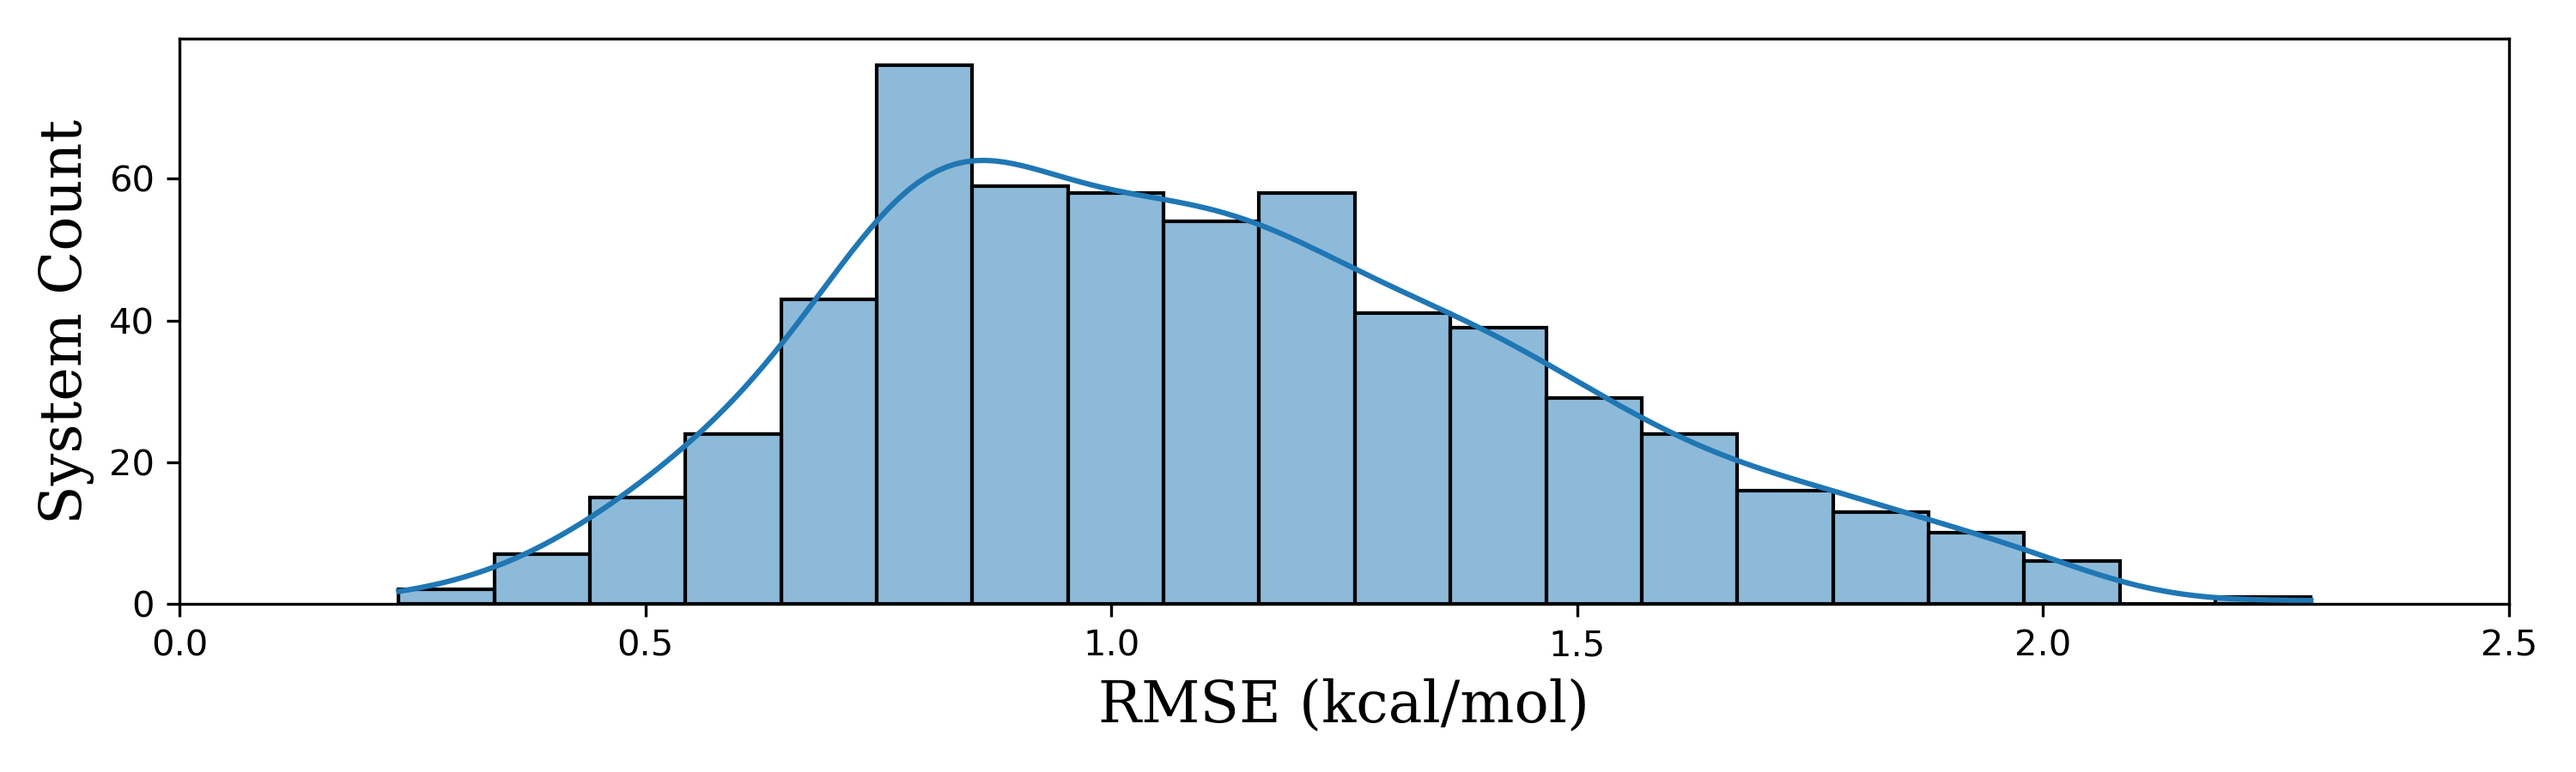
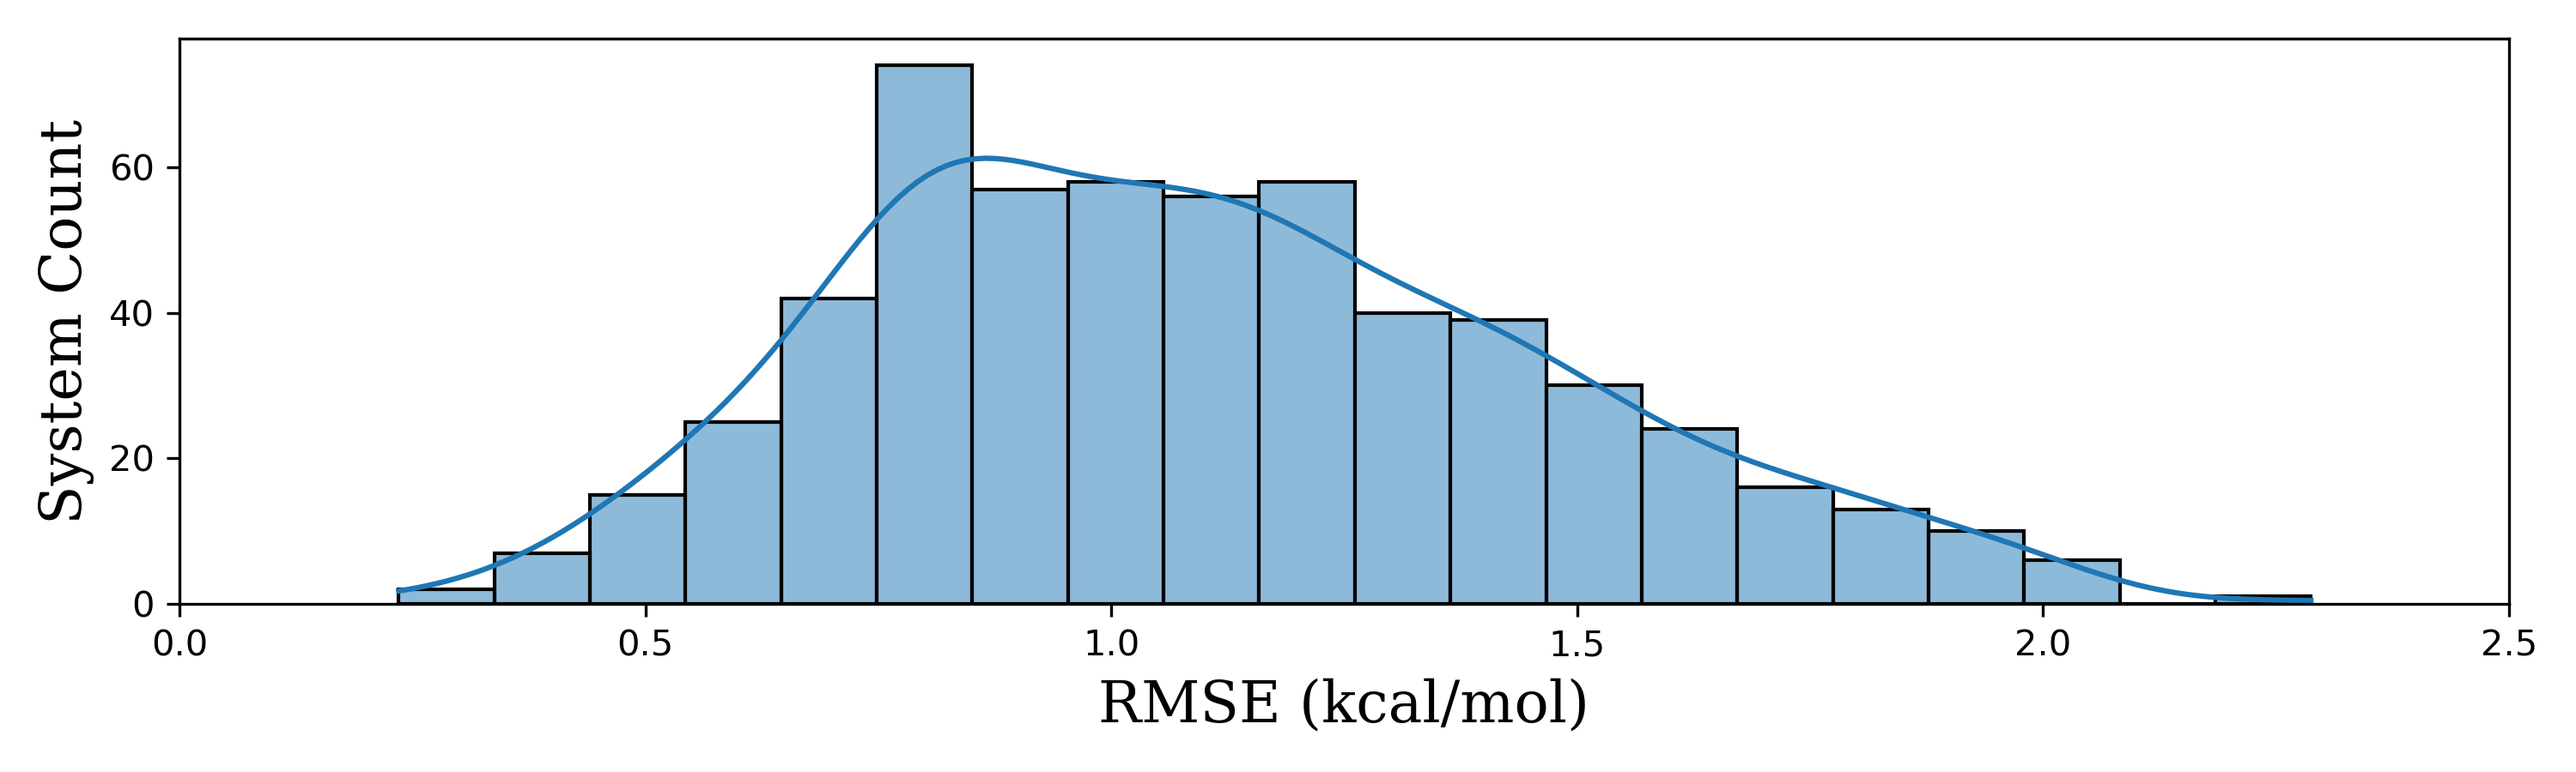
Refresh benchmark summary after weekly ChEMBL upload.

diff --git a/README.md b/README.md
@@ -34,8 +34,8 @@ For more details, please refer to our [FEP Open Challenge introduction](https://
 
 
 ## Summary of Benchmark Results
-**Total Systems**: 575  
-**Total Ligands**: 10973
+**Total Systems**: 573  
+**Total Ligands**: 10952
 ![RMSE Distribution](rmse_distribution.png)
 ![Kendall's tau Distribution](tau_distribution.png)
 | Series | Target | N_Ligands | RMSE (kcal/mol) | R² | Kendall's tau | Description |
@@ -59,10 +59,8 @@ For more details, please refer to our [FEP Open Challenge introduction](https://
 | ChEMBL | AURKA | 30 | 0.80 | 0.32 | 0.15 | CHEMBL1656337 |
 | ChEMBL | AURKA | 7 | 1.12 | 0.79 | 0.59 | CHEMBL2382841 |
 | ChEMBL | AURKA | 10 | 1.49 | 0.54 | 0.63 | CHEMBL912713 |
-| ChEMBL | BACE1 | 8 | 0.80 | 0.74 | 0.79 | CHEMBL1048416 |
 | ChEMBL | BACE1 | 42 | 1.61 | 0.27 | 0.43 | CHEMBL1109071 |
 | ChEMBL | BACE1 | 37 | 0.86 | 0.38 | 0.44 | CHEMBL1260850 |
-| ChEMBL | BACE1 | 17 | 1.35 | 0.66 | 0.58 | CHEMBL1273970|g2 |
 | ChEMBL | BACE1 | 9 | 0.79 | 0.57 | 0.83 | CHEMBL2015090 |
 | ChEMBL | BACE1 | 13 | 1.71 | 0.25 | 0.38 | CHEMBL2155063 |
 | ChEMBL | BACE1 | 10 | 0.96 | 0.66 | 0.73 | CHEMBL2182237 |
@@ -177,7 +175,6 @@ For more details, please refer to our [FEP Open Challenge introduction](https://
 | ChEMBL | DPP4 | 23 | 0.74 | 0.61 | 0.50 | CHEMBL951312 |
 | ChEMBL | DUT | 18 | 0.83 | 0.51 | 0.45 | CHEMBL2049243 |
 | ChEMBL | DUT | 13 | 1.10 | 0.40 | 0.49 | CHEMBL2060493 |
-| ChEMBL | DUT | 20 | 0.78 | 0.41 | 0.41 | CHEMBL3705334|g4 |
 | ChEMBL | DUT | 20 | 0.64 | 0.62 | 0.55 | CHEMBL3705334|g6 |
 | ChEMBL | DYRK1A | 31 | 1.25 | 0.37 | 0.44 | CHEMBL3097668 |
 | ChEMBL | DYRK1A | 12 | 1.62 | 0.26 | 0.42 | CHEMBL4151434 |
@@ -256,14 +253,12 @@ For more details, please refer to our [FEP Open Challenge introduction](https://
 | ChEMBL | HSP90AA1 | 9 | 0.99 | 0.62 | 0.67 | CHEMBL3427922 |
 | ChEMBL | HSP90AA1 | 23 | 1.60 | 0.38 | 0.44 | CHEMBL3885742 |
 | ChEMBL | HSP90AA1 | 11 | 0.58 | 0.86 | 0.66 | CHEMBL3885778 |
-| ChEMBL | HSP90AA1 | 9 | 0.93 | 0.68 | 0.56 | CHEMBL3885779 |
 | ChEMBL | HSP90AA1 | 7 | 0.74 | 0.34 | 0.59 | CHEMBL4372487 |
 | ChEMBL | HSP90AA1 | 11 | 0.67 | 0.76 | 0.56 | CHEMBL832973 |
 | ChEMBL | IDH1 | 19 | 1.15 | 0.76 | 0.67 | CHEMBL4360242|g1 |
 | ChEMBL | IDH2 | 14 | 1.16 | 0.32 | 0.45 | CHEMBL4628662 |
 | ChEMBL | IGF1R | 9 | 1.08 | 0.38 | 0.54 | CHEMBL1045057 |
 | ChEMBL | IGF1R | 11 | 1.03 | 0.49 | 0.53 | CHEMBL3424980 |
-| ChEMBL | IRAK4 | 15 | 0.91 | 0.78 | 0.71 | CHEMBL3737182 |
 | ChEMBL | IRAK4 | 17 | 1.07 | 0.66 | 0.68 | CHEMBL3887963|g1 |
 | ChEMBL | IRAK4 | 19 | 1.20 | 0.52 | 0.45 | CHEMBL3887963|g3 |
 | ChEMBL | IRAK4 | 19 | 0.84 | 0.50 | 0.58 | CHEMBL4015947 |
@@ -352,7 +347,6 @@ For more details, please refer to our [FEP Open Challenge introduction](https://
 | ChEMBL | MAPK14 | 29 | 0.90 | 0.31 | 0.44 | CHEMBL2317232 |
 | ChEMBL | MAPK14 | 41 | 1.12 | 0.30 | 0.36 | CHEMBL3070436 |
 | ChEMBL | MAPK14 | 35 | 1.57 | 0.33 | 0.33 | CHEMBL3705800 |
-| ChEMBL | MAPK14 | 15 | 0.52 | 0.57 | 0.38 | CHEMBL4019402|g2 |
 | ChEMBL | MAPK14 | 17 | 1.79 | 0.39 | 0.53 | CHEMBL732094 |
 | ChEMBL | MAPK14 | 9 | 1.42 | 0.68 | 0.56 | CHEMBL734085 |
 | ChEMBL | MAPK14 | 9 | 1.65 | 0.54 | 0.56 | CHEMBL734088 |
@@ -399,7 +393,6 @@ For more details, please refer to our [FEP Open Challenge introduction](https://
 | ChEMBL | NAMPT | 15 | 0.84 | 0.43 | 0.50 | CHEMBL3888190|g24 |
 | ChEMBL | NAMPT | 20 | 0.53 | 0.70 | 0.62 | CHEMBL3888190|g25 |
 | ChEMBL | NAMPT | 20 | 0.65 | 0.42 | 0.35 | CHEMBL3888190|g26 |
-| ChEMBL | NAMPT | 19 | 0.70 | 0.46 | 0.52 | CHEMBL3888190|g9 |
 | ChEMBL | NAMPT | 38 | 1.01 | 0.42 | 0.53 | CHEMBL4036655 |
 | ChEMBL | NEK2 | 11 | 1.12 | 0.35 | 0.45 | CHEMBL1693342 |
 | ChEMBL | NEK2 | 19 | 1.42 | 0.42 | 0.46 | CHEMBL2044151 |
@@ -456,6 +449,7 @@ For more details, please refer to our [FEP Open Challenge introduction](https://
 | ChEMBL | PIK3CA | 15 | 1.61 | 0.22 | 0.26 | CHEMBL887586 |
 | ChEMBL | PIK3CG | 22 | 0.97 | 0.24 | 0.42 | CHEMBL1065056 |
 | ChEMBL | PIK3CG | 9 | 0.63 | 0.79 | 0.67 | CHEMBL1108628 |
+| ChEMBL | PIK3CG | 18 | 1.07 | 0.50 | 0.45 | CHEMBL1243968|g3 |
 | ChEMBL | PIK3CG | 10 | 1.04 | 0.50 | 0.47 | CHEMBL2174949 |
 | ChEMBL | PIM1 | 16 | 0.95 | 0.47 | 0.48 | CHEMBL1022925 |
 | ChEMBL | PIM1 | 14 | 0.78 | 0.51 | 0.52 | CHEMBL1059319|g3 |
@@ -467,6 +461,7 @@ For more details, please refer to our [FEP Open Challenge introduction](https://
 | ChEMBL | PIM1 | 13 | 1.28 | 0.69 | 0.71 | CHEMBL3376646 |
 | ChEMBL | PIM1 | 23 | 0.88 | 0.56 | 0.61 | CHEMBL3396419 |
 | ChEMBL | PIM1 | 13 | 1.19 | 0.81 | 0.46 | CHEMBL3705754|g9 |
+| ChEMBL | PIM1 | 17 | 1.15 | 0.47 | 0.53 | CHEMBL3706382|g5 |
 | ChEMBL | PIM1 | 17 | 0.78 | 0.59 | 0.55 | CHEMBL3864805|g1 |
 | ChEMBL | PIM1 | 17 | 1.37 | 0.48 | 0.41 | CHEMBL3887608 |
 | ChEMBL | PIM1 | 19 | 0.82 | 0.61 | 0.52 | CHEMBL3888377|g6 |
@@ -512,6 +507,7 @@ For more details, please refer to our [FEP Open Challenge introduction](https://
 | ChEMBL | RIPK2 | 33 | 1.37 | 0.47 | 0.47 | CHEMBL4135584 |
 | ChEMBL | RIPK2 | 12 | 1.20 | 0.46 | 0.52 | CHEMBL4269599 |
 | ChEMBL | RIPK2 | 28 | 1.77 | 0.22 | 0.44 | CHEMBL4771083 |
+| ChEMBL | ROCK1 | 14 | 0.57 | 0.44 | 0.58 | CHEMBL3226385|g2 |
 | ChEMBL | ROCK1 | 15 | 0.98 | 0.56 | 0.49 | CHEMBL3887786|g2 |
 | ChEMBL | ROCK1 | 15 | 0.97 | 0.65 | 0.50 | CHEMBL3889185|g3 |
 | ChEMBL | ROCK1 | 15 | 1.46 | 0.51 | 0.52 | CHEMBL3889185|g5 |
@@ -524,6 +520,8 @@ For more details, please refer to our [FEP Open Challenge introduction](https://
 | ChEMBL | ROCK2 | 12 | 1.14 | 0.38 | 0.39 | CHEMBL4669834 |
 | ChEMBL | RORC | 22 | 1.38 | 0.21 | 0.31 | CHEMBL3270932 |
 | ChEMBL | RORC | 36 | 1.12 | 0.48 | 0.36 | CHEMBL3599133 |
+| ChEMBL | RORC | 18 | 0.50 | 0.70 | 0.72 | CHEMBL3887749|g10 |
+| ChEMBL | RORC | 15 | 1.48 | 0.63 | 0.50 | CHEMBL3887749|g7 |
 | ChEMBL | RORC | 22 | 1.23 | 0.33 | 0.32 | CHEMBL4197717 |
 | ChEMBL | RPS6KA3 | 28 | 0.79 | 0.58 | 0.62 | CHEMBL3607765 |
 | ChEMBL | RPS6KA3 | 12 | 0.89 | 0.83 | 0.72 | CHEMBL4266990 |
